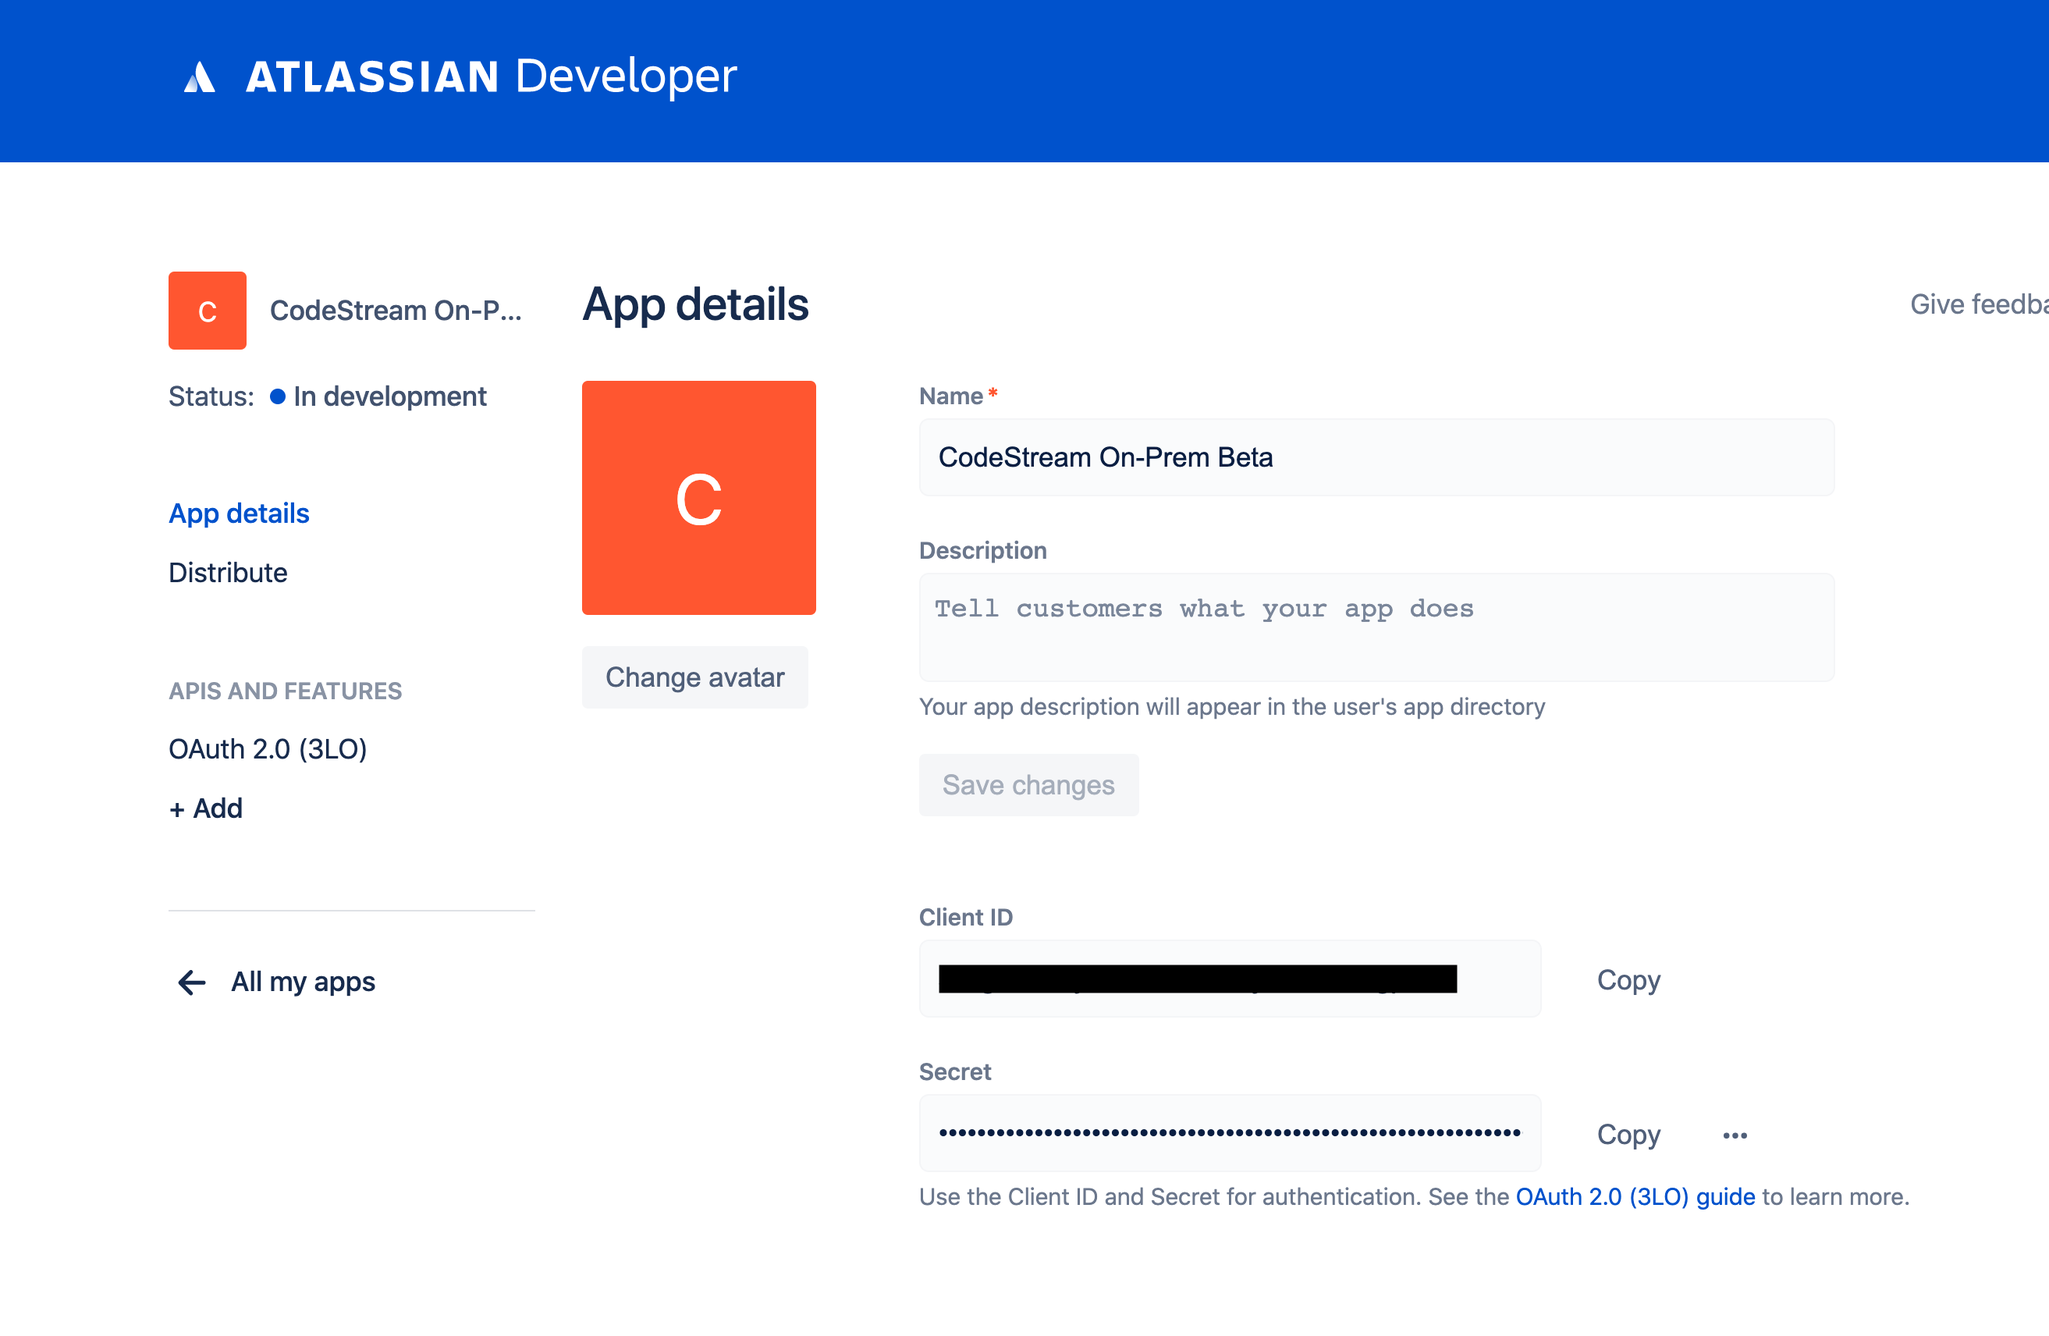
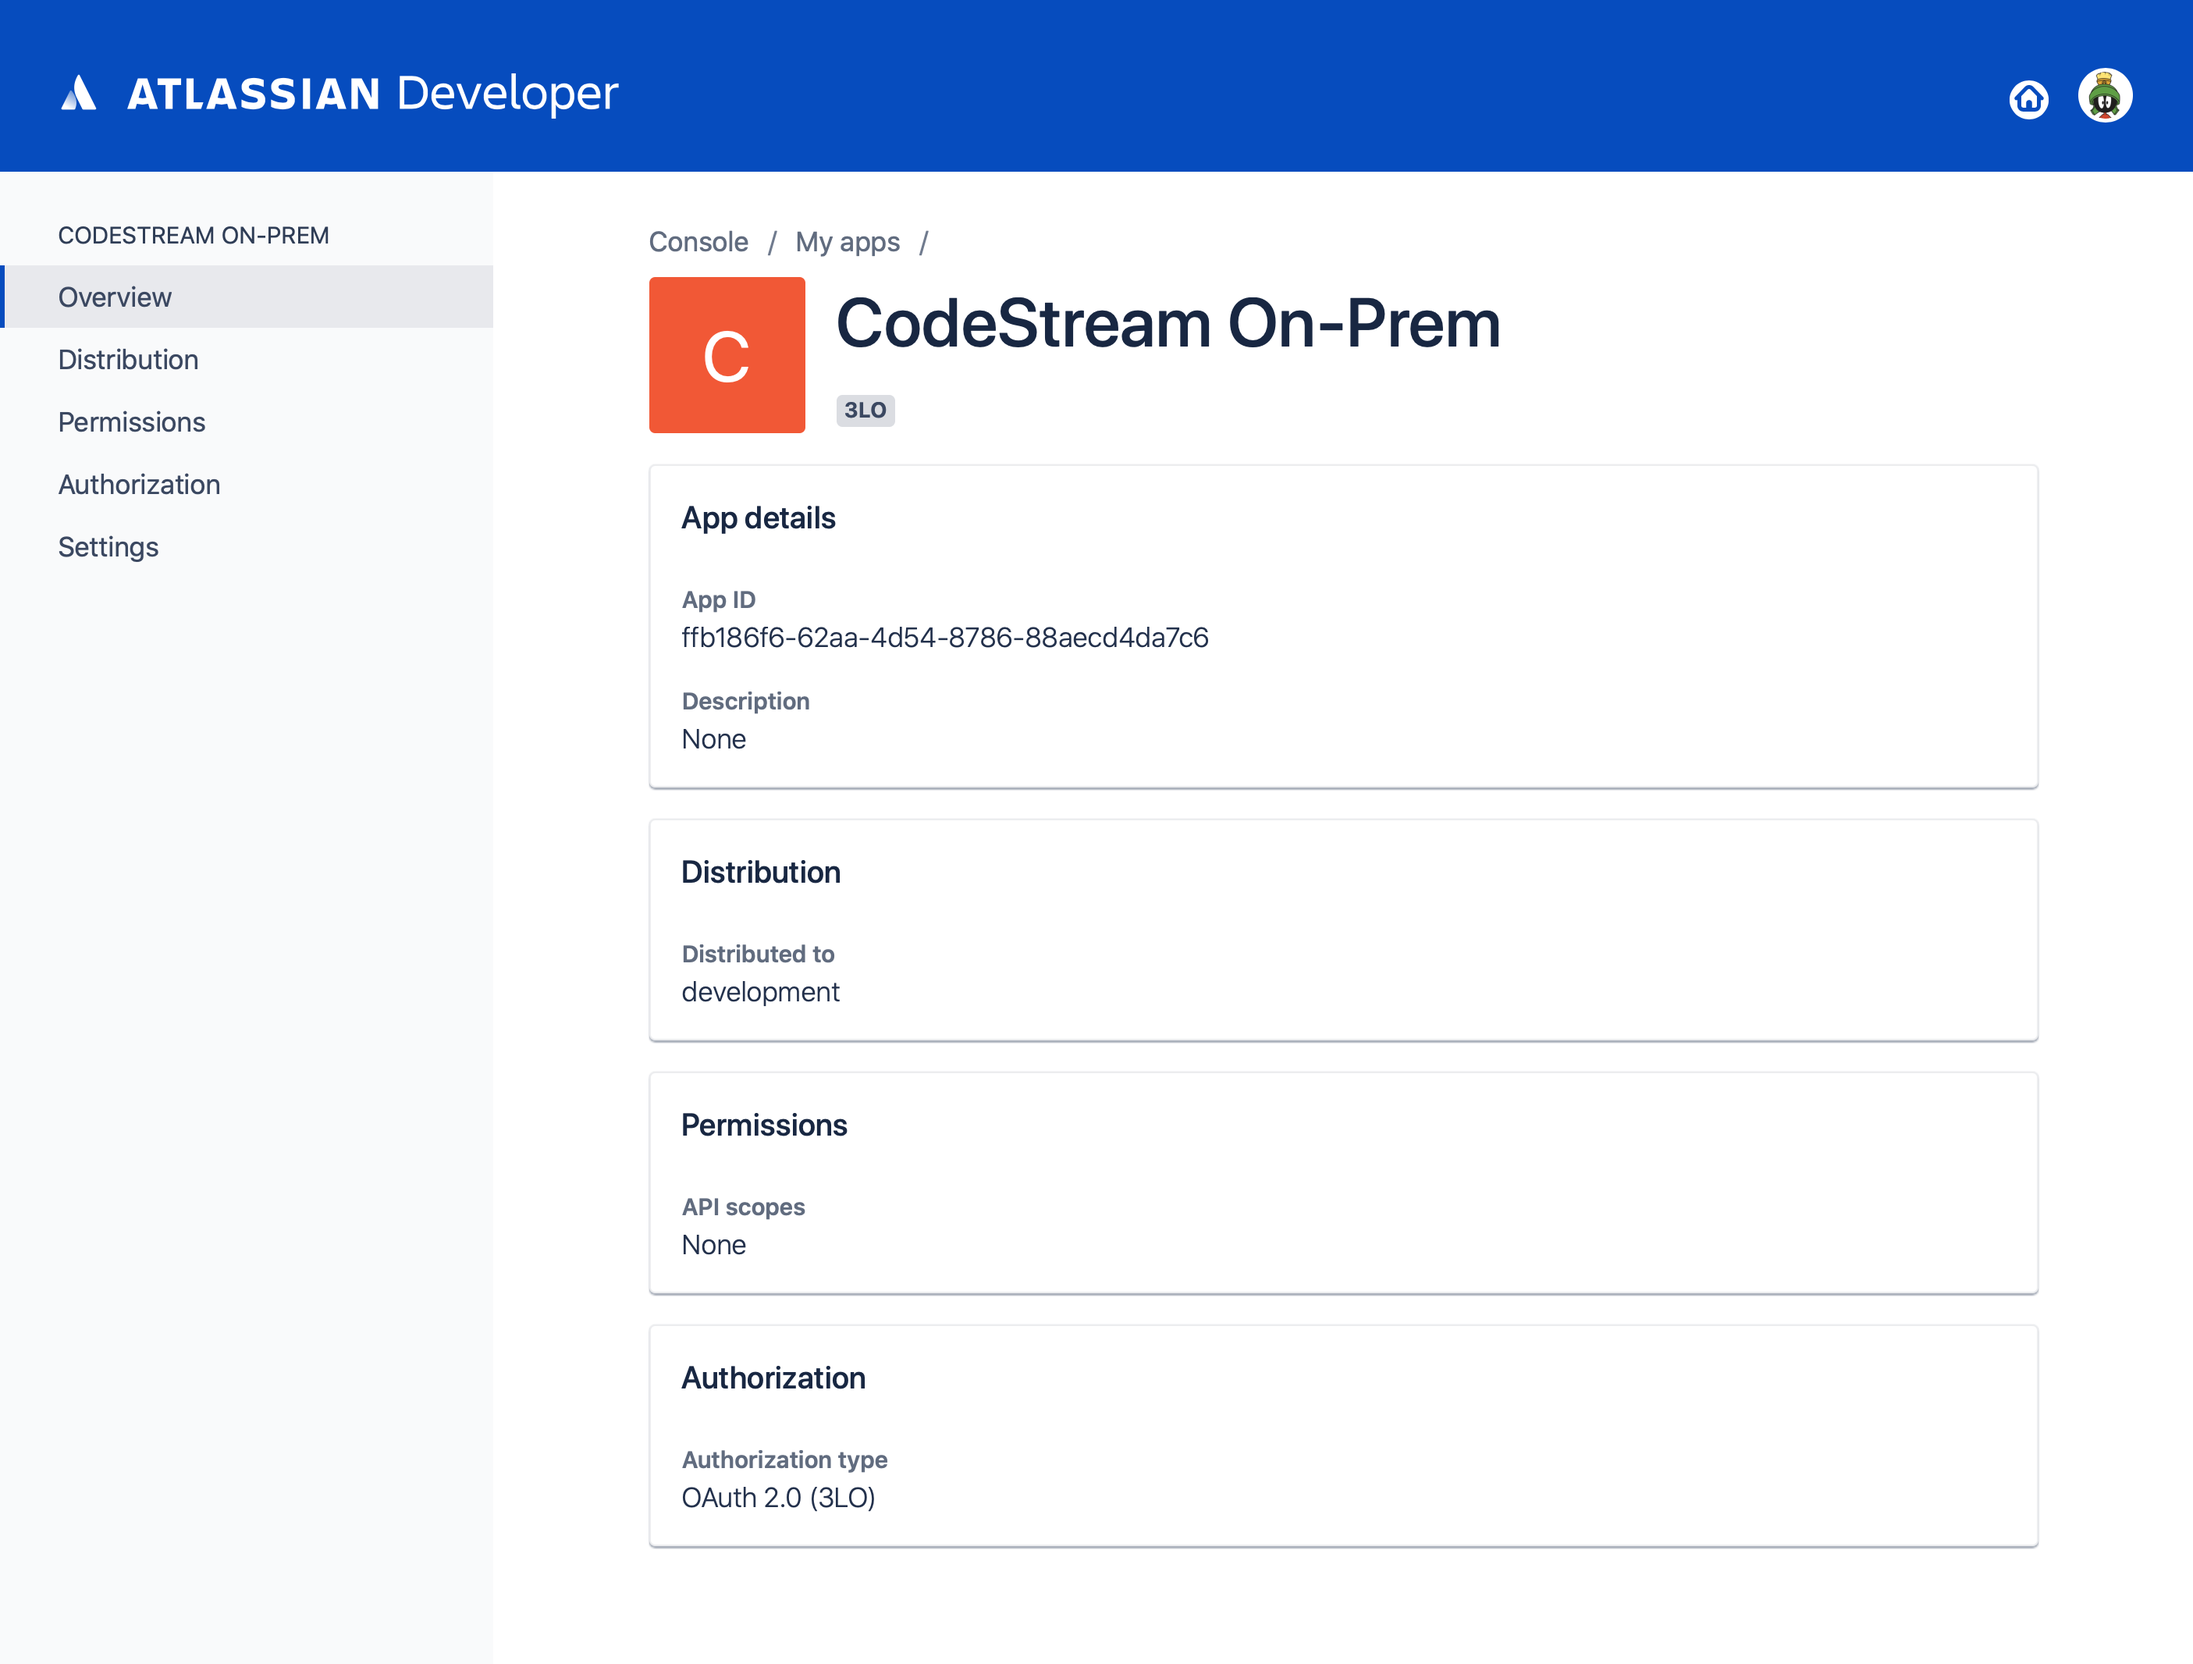
support for atlassian updates to app creation interface

diff --git a/docs/src/issues/jira.md b/docs/src/issues/jira.md
@@ -30,31 +30,38 @@ Take note of the Client ID and Secret.
 
 ## Add your REST API Permissions and Callback URL
 
-Select the **+ Add** link on the navagation bar to bring up the Feature options
-page and add the **Jira REST Platform API** feature.
+Select **Permissions** on the navagation bar to bring up the api selections.
 
-![feature](../assets/images/issue/jira/04 Add Rest API.png)
+![feature](../assets/images/issue/jira/04 Permissions.png)
 
-Select the **Jira platform REST API** option which now exists on the nav bar and
-update the permissions to match this screen shot.
+Select the **Jira platform REST API** option and then the configurue button.
 
 ![jira perms](../assets/images/issue/jira/05 Add Jira REST API.png)
 
-Now select **OAuth 2.0 (3LO)** on the left navagation bar and add your
-callback URL. It should reference your company's CodeStream On-Prem hostname
-with this path:
+Add the 3 scopes pointed to by the arrows above.
+
+
+## Setup the Authorization
+
+Now select **Authorization** on the left navagation bar and then the
+**Cunfigure** action button.
+
+![jira perms](../assets/images/issue/jira/06a Authorization.png)
+
+Now add your callback URL. It should reference your company's CodeStream On-Prem
+hostname with this path:
+
 `https://codestream-onprem.mycompany.com/no-auth/provider-token/jira`
 
 ![callback](../assets/images/issue/jira/06 Add Callback.png)
 
 
-## Distribute the App
+## Take Note of the Client Id and Secret
 
-For anyone other than you to use the app, you must publicly distribute it.
-Select the **Distribute** option on the nav bar, complete the form and make your
-app publicly available.
+Click on **Settings** on the left nav bar and take note of the Client ID
+and Secret.
 
-![distribute](../assets/images/issue/jira/07 Distribute the App.png)
+![jira perms](../assets/images/issue/jira/08 Settings.png)
 
 ## Update the CodeStream Config and Restart
 
